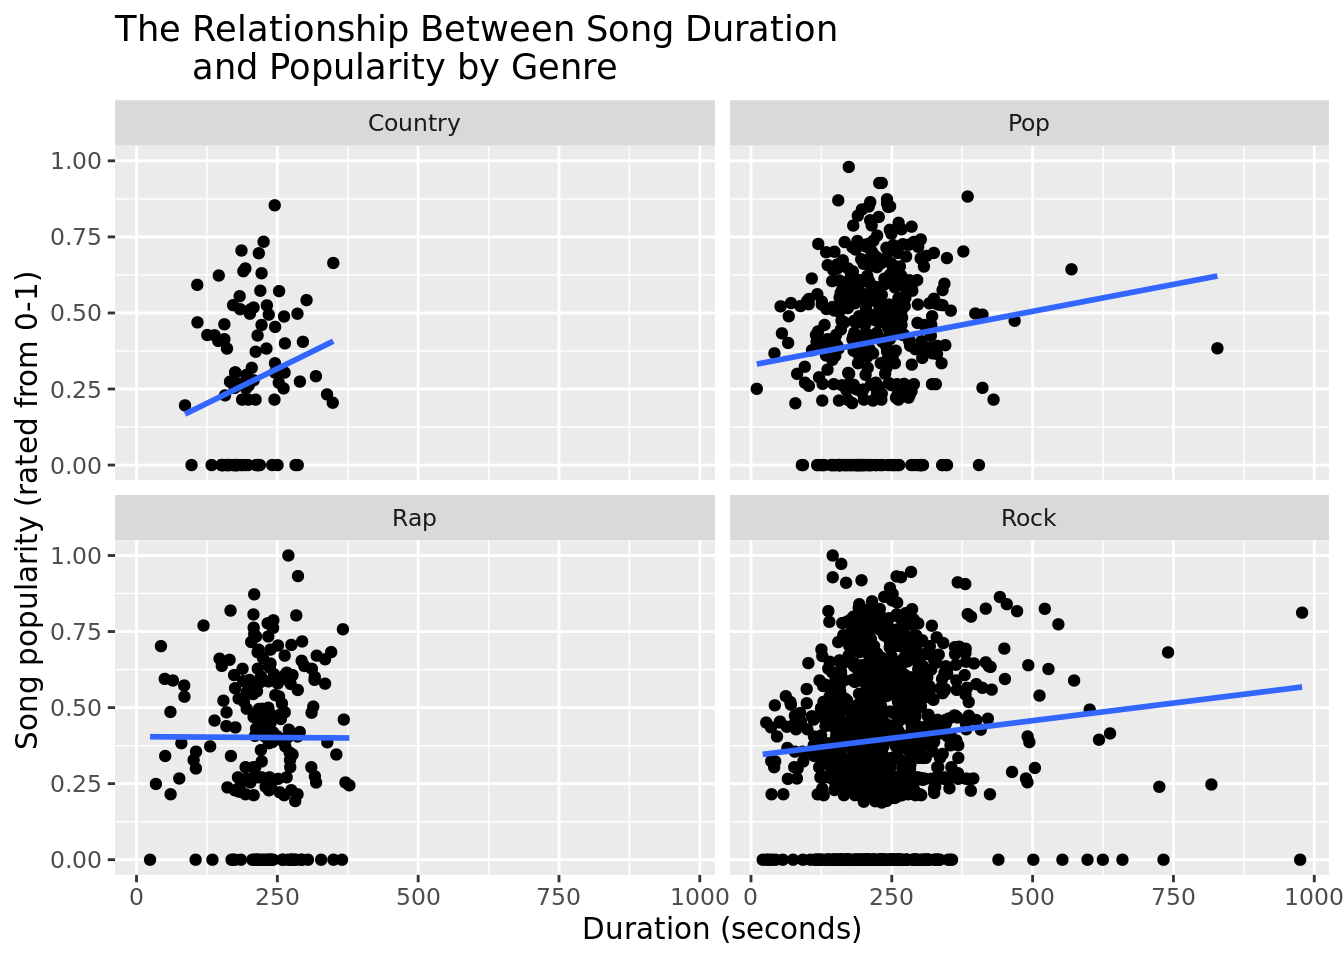
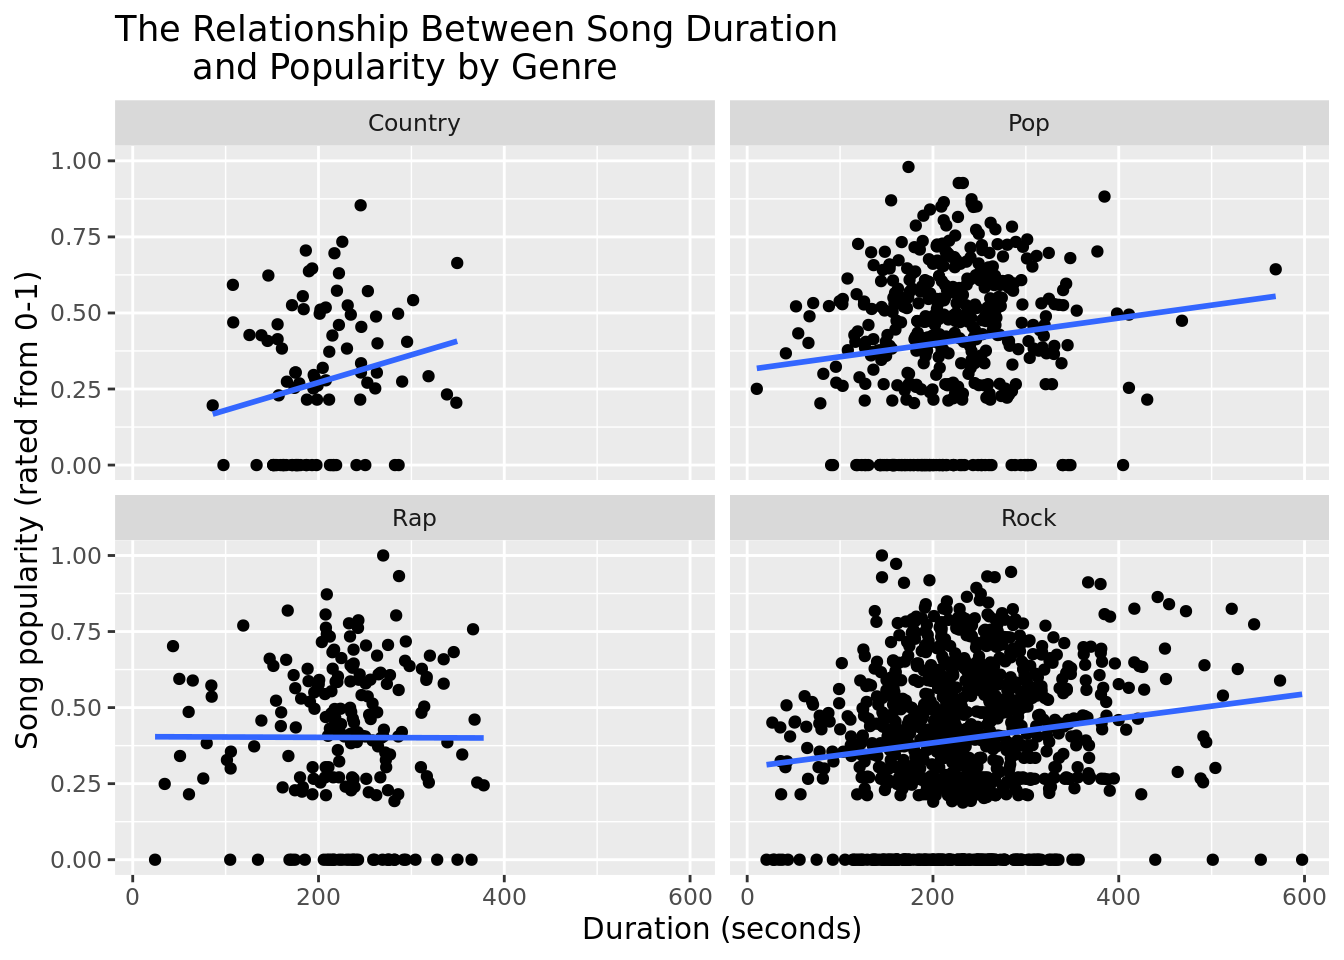
completed project draft

diff --git a/docs/report.html b/docs/report.html
@@ -282,10 +282,11 @@ dbl (31): artist.familiarity, artist.hotttnesss, artist.latitude, artist.loc...
 <p><img src="report_files/figure-html/tempo-by-genre-1.png" class="img-fluid" width="672"></p>
 </div>
 </div>
+<p>All of the genres have a positive relationship with song tempo except for rap which has a negative relationship. Thus, we predict that faster songs are on average more popular.</p>
 <div class="cell">
 <div class="sourceCode cell-code" id="cb10"><pre class="sourceCode r code-with-copy"><code class="sourceCode r"><span id="cb10-1"><a href="#cb10-1" aria-hidden="true" tabindex="-1"></a>music_filter <span class="sc">|&gt;</span> </span>
 <span id="cb10-2"><a href="#cb10-2" aria-hidden="true" tabindex="-1"></a>  <span class="fu">filter</span>(song.hotttnesss <span class="sc">&gt;=</span> <span class="dv">0</span>,</span>
-<span id="cb10-3"><a href="#cb10-3" aria-hidden="true" tabindex="-1"></a>         song.duration <span class="sc">&lt;</span> <span class="dv">1000</span>) <span class="sc">|&gt;</span></span>
+<span id="cb10-3"><a href="#cb10-3" aria-hidden="true" tabindex="-1"></a>         song.duration <span class="sc">&lt;</span> <span class="dv">600</span>) <span class="sc">|&gt;</span></span>
 <span id="cb10-4"><a href="#cb10-4" aria-hidden="true" tabindex="-1"></a>  <span class="fu">ggplot</span>(</span>
 <span id="cb10-5"><a href="#cb10-5" aria-hidden="true" tabindex="-1"></a>    <span class="fu">aes</span>(<span class="at">x =</span> song.duration, <span class="at">y =</span> song.hotttnesss)) <span class="sc">+</span></span>
 <span id="cb10-6"><a href="#cb10-6" aria-hidden="true" tabindex="-1"></a>  <span class="fu">geom_point</span>() <span class="sc">+</span></span>
@@ -301,6 +302,7 @@ dbl (31): artist.familiarity, artist.hotttnesss, artist.latitude, artist.loc...
 <p><img src="report_files/figure-html/duration-by-genre-1.png" class="img-fluid" width="672"></p>
 </div>
 </div>
+<p>We filtered for songs under 10 minutes because there were several outliers. For rap, there was no relation on average between duration and popularity as the linear fit line was flat. For the other three genres, there was a positive relationship between duration and popularity. Thus, we predict that longer songs are on average more popular for country, pop and rock.</p>
 <div class="cell">
 <div class="sourceCode cell-code" id="cb12"><pre class="sourceCode r code-with-copy"><code class="sourceCode r"><span id="cb12-1"><a href="#cb12-1" aria-hidden="true" tabindex="-1"></a>music_filter <span class="sc">|&gt;</span> </span>
 <span id="cb12-2"><a href="#cb12-2" aria-hidden="true" tabindex="-1"></a>  <span class="fu">filter</span>(song.hotttnesss <span class="sc">&gt;=</span> <span class="dv">0</span>) <span class="sc">|&gt;</span></span>
@@ -310,7 +312,7 @@ dbl (31): artist.familiarity, artist.hotttnesss, artist.latitude, artist.loc...
 <span id="cb12-6"><a href="#cb12-6" aria-hidden="true" tabindex="-1"></a>  <span class="fu">geom_smooth</span>(<span class="at">method =</span> lm, <span class="at">se =</span> F) <span class="sc">+</span></span>
 <span id="cb12-7"><a href="#cb12-7" aria-hidden="true" tabindex="-1"></a>  <span class="fu">facet_wrap</span>(<span class="sc">~</span> artist.terms) <span class="sc">+</span></span>
 <span id="cb12-8"><a href="#cb12-8" aria-hidden="true" tabindex="-1"></a>  <span class="fu">labs</span>(<span class="at">x =</span> <span class="st">"Familiarity (0-1 scale)"</span>, <span class="at">y =</span> <span class="st">"Song popularity (rated from 0-1)"</span>,</span>
-<span id="cb12-9"><a href="#cb12-9" aria-hidden="true" tabindex="-1"></a>       <span class="at">title =</span> <span class="st">"The Relationship Between Song Duration</span></span>
+<span id="cb12-9"><a href="#cb12-9" aria-hidden="true" tabindex="-1"></a>       <span class="at">title =</span> <span class="st">"The Relationship Between Artist Familiarity</span></span>
 <span id="cb12-10"><a href="#cb12-10" aria-hidden="true" tabindex="-1"></a><span class="st">       and Popularity by Genre"</span>)</span></code><button title="Copy to Clipboard" class="code-copy-button"><i class="bi"></i></button></pre></div>
 <div class="cell-output cell-output-stderr">
 <pre><code>`geom_smooth()` using formula = 'y ~ x'</code></pre>
@@ -319,6 +321,7 @@ dbl (31): artist.familiarity, artist.hotttnesss, artist.latitude, artist.loc...
 <p><img src="report_files/figure-html/familiarity-by-genre-1.png" class="img-fluid" width="672"></p>
 </div>
 </div>
+<p>Based on our linear models, there is a positive relationship between artist familiarity and song popularity for all four genres. Thus, we predict that songs by artists that listeners are more familiar with are more popular.</p>
 <div class="cell">
 <div class="sourceCode cell-code" id="cb14"><pre class="sourceCode r code-with-copy"><code class="sourceCode r"><span id="cb14-1"><a href="#cb14-1" aria-hidden="true" tabindex="-1"></a>music_filter <span class="sc">|&gt;</span> </span>
 <span id="cb14-2"><a href="#cb14-2" aria-hidden="true" tabindex="-1"></a>  <span class="fu">filter</span>(song.hotttnesss <span class="sc">&gt;=</span> <span class="dv">0</span>,</span>
@@ -329,7 +332,7 @@ dbl (31): artist.familiarity, artist.hotttnesss, artist.latitude, artist.loc...
 <span id="cb14-7"><a href="#cb14-7" aria-hidden="true" tabindex="-1"></a>  <span class="fu">geom_smooth</span>(<span class="at">method =</span> lm, <span class="at">se =</span> F) <span class="sc">+</span></span>
 <span id="cb14-8"><a href="#cb14-8" aria-hidden="true" tabindex="-1"></a>  <span class="fu">facet_wrap</span>(<span class="sc">~</span> artist.terms) <span class="sc">+</span></span>
 <span id="cb14-9"><a href="#cb14-9" aria-hidden="true" tabindex="-1"></a>  <span class="fu">labs</span>(<span class="at">x =</span> <span class="st">"Year"</span>, <span class="at">y =</span> <span class="st">"Song popularity (rated from 0-1)"</span>,</span>
-<span id="cb14-10"><a href="#cb14-10" aria-hidden="true" tabindex="-1"></a>       <span class="at">title =</span> <span class="st">"The Relationship Between Song Duration</span></span>
+<span id="cb14-10"><a href="#cb14-10" aria-hidden="true" tabindex="-1"></a>       <span class="at">title =</span> <span class="st">"The Relationship Between Song Year</span></span>
 <span id="cb14-11"><a href="#cb14-11" aria-hidden="true" tabindex="-1"></a><span class="st">       and Popularity by Genre"</span>)</span></code><button title="Copy to Clipboard" class="code-copy-button"><i class="bi"></i></button></pre></div>
 <div class="cell-output cell-output-stderr">
 <pre><code>`geom_smooth()` using formula = 'y ~ x'</code></pre>
@@ -338,6 +341,7 @@ dbl (31): artist.familiarity, artist.hotttnesss, artist.latitude, artist.loc...
 <p><img src="report_files/figure-html/year-by-genre-1.png" class="img-fluid" width="672"></p>
 </div>
 </div>
+<p>For song year and popularity, visually there appears to be a weak positive relationship for all genres except rap which has a negative correlation. Thus, we predict that for country, pop and rock the more recent the song was released the more popular it is on average. For rap, older songs on average appear to be more popular.</p>
 <p>Finally, we run interactive regression models to measure the interactive effect between artist.terms (genre associated with an artist) and respective song attributes on song popularity (song.hotttnesss). We believe that an interactive model is useful in answering our research question because we are interested in the extent to which different song attributes predict song popularity, based on the genre associated with the artist. The predictions made by our interactive model can thus be broken down into the different predicted effects for each genre, which directly helps us answer our research question. Additionally, we are able to calculate the AIC and adjusted R-squared value of each model to determine which model is the greatest fit, and thus which may possibly have the most significant predictve power, which will also help us answer our question of the extent to which different song attributes predict song popularity.</p>
 <div class="cell">
 <div class="sourceCode cell-code" id="cb16"><pre class="sourceCode r code-with-copy"><code class="sourceCode r"><span id="cb16-1"><a href="#cb16-1" aria-hidden="true" tabindex="-1"></a>int_model_tempo <span class="ot">&lt;-</span> <span class="fu">linear_reg</span>() <span class="sc">|&gt;</span></span>
@@ -360,11 +364,10 @@ dbl (31): artist.familiarity, artist.hotttnesss, artist.latitude, artist.loc...
 </div>
 </div>
 <p>From the above regression, we are getting the following estimations for each genre (where Country is our “baseline” genre):</p>
-<p>Country: <span class="math inline">\(\widehat{song.hotttness} = -0.370642967 -0.000534460 * song.tempo\)</span></p>
-<p>Pop: <span class="math inline">\(\widehat{song.hotttness} = -0.370642967 - 0.215690672 + (-0.000534460 + 0.00303) * song.tempo = -0.586333639 + 0.00249554* song.tempo\)</span></p>
-<p>Rap: <span class="math inline">\(\widehat{song.hotttness} = -0.370642967 + 0.475038439 + (-0.000534460 -0.001126495) * song.tempo = 0.104395472 - 0.001660955 * song.tempo\)</span></p>
-<p>Rock: <span class="math inline">\(\widehat{song.hotttness} = -0.370642967 + 0.301058002 + (-0.000534460 + 0.000115371) * song.tempo = -0.069584965 - 0.000419089 * song.tempo\)</span></p>
-<p>(Interpretation?)</p>
+<p>Country: <span class="math inline">\(\widehat{song.hotttness} = -0.371 -0.000534 * song.tempo\)</span></p>
+<p>Pop: <span class="math inline">\(\widehat{song.hotttness} = -0.371 - 0.216 + (-0.000534 + 0.00303) * song.tempo = -0.587 + 0.002496* song.tempo\)</span></p>
+<p>Rap: <span class="math inline">\(\widehat{song.hotttness} = -0.371 + 0.475 + (-0.000534 -0.00113) * song.tempo = 0.104 - 0.001664 * song.tempo\)</span></p>
+<p>Rock: <span class="math inline">\(\widehat{song.hotttness} = -0.371 + 0.301 + (-0.000534 + 0.000115) * song.tempo = -0.07 - 0.000419 * song.tempo\)</span></p>
 <div class="cell">
 <div class="sourceCode cell-code" id="cb18"><pre class="sourceCode r code-with-copy"><code class="sourceCode r"><span id="cb18-1"><a href="#cb18-1" aria-hidden="true" tabindex="-1"></a>int_model_duration <span class="ot">&lt;-</span> <span class="fu">linear_reg</span>() <span class="sc">|&gt;</span></span>
 <span id="cb18-2"><a href="#cb18-2" aria-hidden="true" tabindex="-1"></a>  <span class="fu">set_engine</span>(<span class="st">"lm"</span>) <span class="sc">|&gt;</span></span>
@@ -390,7 +393,6 @@ dbl (31): artist.familiarity, artist.hotttnesss, artist.latitude, artist.loc...
 <p>Pop: <span class="math inline">\(\widehat{song.hotttness} = -0.949 + 0.712 + (0.00267 - 0.00285) * song.duration = -0.237 - 0.00018 * song.duration\)</span></p>
 <p>Rap: <span class="math inline">\(\widehat{song.hotttness} = -0.949 + 1.08 + (0.00267 - 0.00363) * song.duration = 0.131 - 0.00096 * song.duration\)</span></p>
 <p>Rock: <span class="math inline">\(\widehat{song.hotttness} = -0.949 + 0.758 + (0.00267 - 0.00239) * song.duration = -0.191 + 0.00028 * song.duration\)</span></p>
-<p>(Interpretation?)</p>
 <div class="cell">
 <div class="sourceCode cell-code" id="cb20"><pre class="sourceCode r code-with-copy"><code class="sourceCode r"><span id="cb20-1"><a href="#cb20-1" aria-hidden="true" tabindex="-1"></a>int_model_familiarity <span class="ot">&lt;-</span> <span class="fu">linear_reg</span>() <span class="sc">|&gt;</span></span>
 <span id="cb20-2"><a href="#cb20-2" aria-hidden="true" tabindex="-1"></a>  <span class="fu">set_engine</span>(<span class="st">"lm"</span>) <span class="sc">|&gt;</span></span>
@@ -416,7 +418,6 @@ dbl (31): artist.familiarity, artist.hotttnesss, artist.latitude, artist.loc...
 <p>Pop: <span class="math inline">\(\widehat{song.hotttness} = -0.958 - 0.0320 + (1.01 + 0.175) * artist.familiarity = -0.99 + 1.185 * artist.familiarity\)</span></p>
 <p>Rap: <span class="math inline">\(\widehat{song.hotttness} = -0.958 + 0.836 + (1.01 - 0.977) * artist.familiarity = -0.122 + 0.033 * artist.familiarity\)</span></p>
 <p>Rock: <span class="math inline">\(\widehat{song.hotttness} = -0.958 + 0.299 + (1.01 - 0.135) * artist.familiarity = -0.659 + 0.875 * artist.familiarity\)</span></p>
-<p>(Interpretation?)</p>
 <div class="cell">
 <div class="sourceCode cell-code" id="cb22"><pre class="sourceCode r code-with-copy"><code class="sourceCode r"><span id="cb22-1"><a href="#cb22-1" aria-hidden="true" tabindex="-1"></a>int_model_year <span class="ot">&lt;-</span> <span class="fu">linear_reg</span>() <span class="sc">|&gt;</span></span>
 <span id="cb22-2"><a href="#cb22-2" aria-hidden="true" tabindex="-1"></a>  <span class="fu">set_engine</span>(<span class="st">"lm"</span>) <span class="sc">|&gt;</span></span>
@@ -442,7 +443,6 @@ dbl (31): artist.familiarity, artist.hotttnesss, artist.latitude, artist.loc...
 <p>Pop: <span class="math inline">\(\widehat{song.hotttness} = -0.470 - 0.0288 + (0.0000399 + 0.000187) * song.year = -0.4988 + 0.0002269 * song.year\)</span></p>
 <p>Rap: <span class="math inline">\(\widehat{song.hotttness} = -0.470 + 0.251 + (0.0000399 + 0.0000755) * song.year = -0.219 + 0.0001154 * song.year\)</span></p>
 <p>Rock: <span class="math inline">\(\widehat{song.hotttness} = -0.470 + 0.182 + (0.0000399 + 0.000105) * song.year = -0.288 + 0.0001449 * song.year\)</span></p>
-<p>(Interpretation?)</p>
 <div class="cell">
 <div class="sourceCode cell-code" id="cb24"><pre class="sourceCode r code-with-copy"><code class="sourceCode r"><span id="cb24-1"><a href="#cb24-1" aria-hidden="true" tabindex="-1"></a><span class="fu">glance</span>(int_model_tempo)<span class="sc">$</span>adj.r.squared</span></code><button title="Copy to Clipboard" class="code-copy-button"><i class="bi"></i></button></pre></div>
 <div class="cell-output cell-output-stdout">
@@ -477,7 +477,7 @@ dbl (31): artist.familiarity, artist.hotttnesss, artist.latitude, artist.loc...
 <pre><code>[1] 6411.685</code></pre>
 </div>
 </div>
-<p>(interpretation)</p>
+<p>Based on our interaction models and the AIC and adjusted r.squared values, year and song popularity had the lowest AIC, making it the best fit model of our song attributes. It is difficult to compared which coefficient was the highest due to the difference in units of our attributes. So, based on AIC how recently a song was released (song.year) has the strongest correlation to popularity.</p>
 
 
 

diff --git a/docs/proposal.html b/docs/proposal.html
@@ -2,7 +2,7 @@
 <html xmlns="http://www.w3.org/1999/xhtml" lang="en" xml:lang="en"><head>
 
 <meta charset="utf-8">
-<meta name="generator" content="quarto-1.2.269">
+<meta name="generator" content="quarto-1.1.251">
 
 <meta name="viewport" content="width=device-width, initial-scale=1.0, user-scalable=yes">
 
@@ -137,24 +137,19 @@ code span.wa { color: #60a0b0; font-weight: bold; font-style: italic; } /* Warni
           <div class="collapse navbar-collapse" id="navbarCollapse">
             <ul class="navbar-nav navbar-nav-scroll me-auto">
   <li class="nav-item">
-    <a class="nav-link" href="./index.html">
- <span class="menu-text">TEAM NAME</span></a>
+    <a class="nav-link" href="./index.html">SUPER STATERS</a>
   </li>  
   <li class="nav-item">
-    <a class="nav-link active" href="./proposal.html" aria-current="page">
- <span class="menu-text">Proposal</span></a>
+    <a class="nav-link active" href="./proposal.html" aria-current="page">Proposal</a>
   </li>  
   <li class="nav-item">
-    <a class="nav-link" href="./presentation.pdf">
- <span class="menu-text">Presentation</span></a>
+    <a class="nav-link" href="./presentation.pdf">Presentation</a>
   </li>  
   <li class="nav-item">
-    <a class="nav-link" href="./report.html">
- <span class="menu-text">Report</span></a>
+    <a class="nav-link" href="./report.html">Report</a>
   </li>  
   <li class="nav-item">
-    <a class="nav-link" href="./about.html">
- <span class="menu-text">About</span></a>
+    <a class="nav-link" href="./about.html">About</a>
   </li>  
 </ul>
               <div id="quarto-search" class="" title="Search"></div>
@@ -209,7 +204,6 @@ code span.wa { color: #60a0b0; font-weight: bold; font-style: italic; } /* Warni
 <div class="quarto-title-meta">
 
     
-  
     
   </div>
   
@@ -530,24 +524,7 @@ window.document.addEventListener("DOMContentLoaded", function (event) {
     button.classList.add('code-copy-button-checked');
     var currentTitle = button.getAttribute("title");
     button.setAttribute("title", "Copied!");
-    let tooltip;
-    if (window.bootstrap) {
-      button.setAttribute("data-bs-toggle", "tooltip");
-      button.setAttribute("data-bs-placement", "left");
-      button.setAttribute("data-bs-title", "Copied!");
-      tooltip = new bootstrap.Tooltip(button, 
-        { trigger: "manual", 
-          customClass: "code-copy-button-tooltip",
-          offset: [0, -8]});
-      tooltip.show();    
-    }
     setTimeout(function() {
-      if (tooltip) {
-        tooltip.hide();
-        button.removeAttribute("data-bs-title");
-        button.removeAttribute("data-bs-toggle");
-        button.removeAttribute("data-bs-placement");
-      }
       button.setAttribute("title", currentTitle);
       button.classList.remove('code-copy-button-checked');
     }, 1000);
@@ -583,42 +560,24 @@ window.document.addEventListener("DOMContentLoaded", function (event) {
       return note.innerHTML;
     });
   }
-  const findCites = (el) => {
-    const parentEl = el.parentElement;
-    if (parentEl) {
-      const cites = parentEl.dataset.cites;
-      if (cites) {
-        return {
-          el,
-          cites: cites.split(' ')
-        };
-      } else {
-        return findCites(el.parentElement)
-      }
-    } else {
-      return undefined;
-    }
-  };
   var bibliorefs = window.document.querySelectorAll('a[role="doc-biblioref"]');
   for (var i=0; i<bibliorefs.length; i++) {
     const ref = bibliorefs[i];
-    const citeInfo = findCites(ref);
-    if (citeInfo) {
-      tippyHover(citeInfo.el, function() {
-        var popup = window.document.createElement('div');
-        citeInfo.cites.forEach(function(cite) {
-          var citeDiv = window.document.createElement('div');
-          citeDiv.classList.add('hanging-indent');
-          citeDiv.classList.add('csl-entry');
-          var biblioDiv = window.document.getElementById('ref-' + cite);
-          if (biblioDiv) {
-            citeDiv.innerHTML = biblioDiv.innerHTML;
-          }
-          popup.appendChild(citeDiv);
-        });
-        return popup.innerHTML;
+    const cites = ref.parentNode.getAttribute('data-cites').split(' ');
+    tippyHover(ref, function() {
+      var popup = window.document.createElement('div');
+      cites.forEach(function(cite) {
+        var citeDiv = window.document.createElement('div');
+        citeDiv.classList.add('hanging-indent');
+        citeDiv.classList.add('csl-entry');
+        var biblioDiv = window.document.getElementById('ref-' + cite);
+        if (biblioDiv) {
+          citeDiv.innerHTML = biblioDiv.innerHTML;
+        }
+        popup.appendChild(citeDiv);
       });
-    }
+      return popup.innerHTML;
+    });
   }
 });
 </script>
